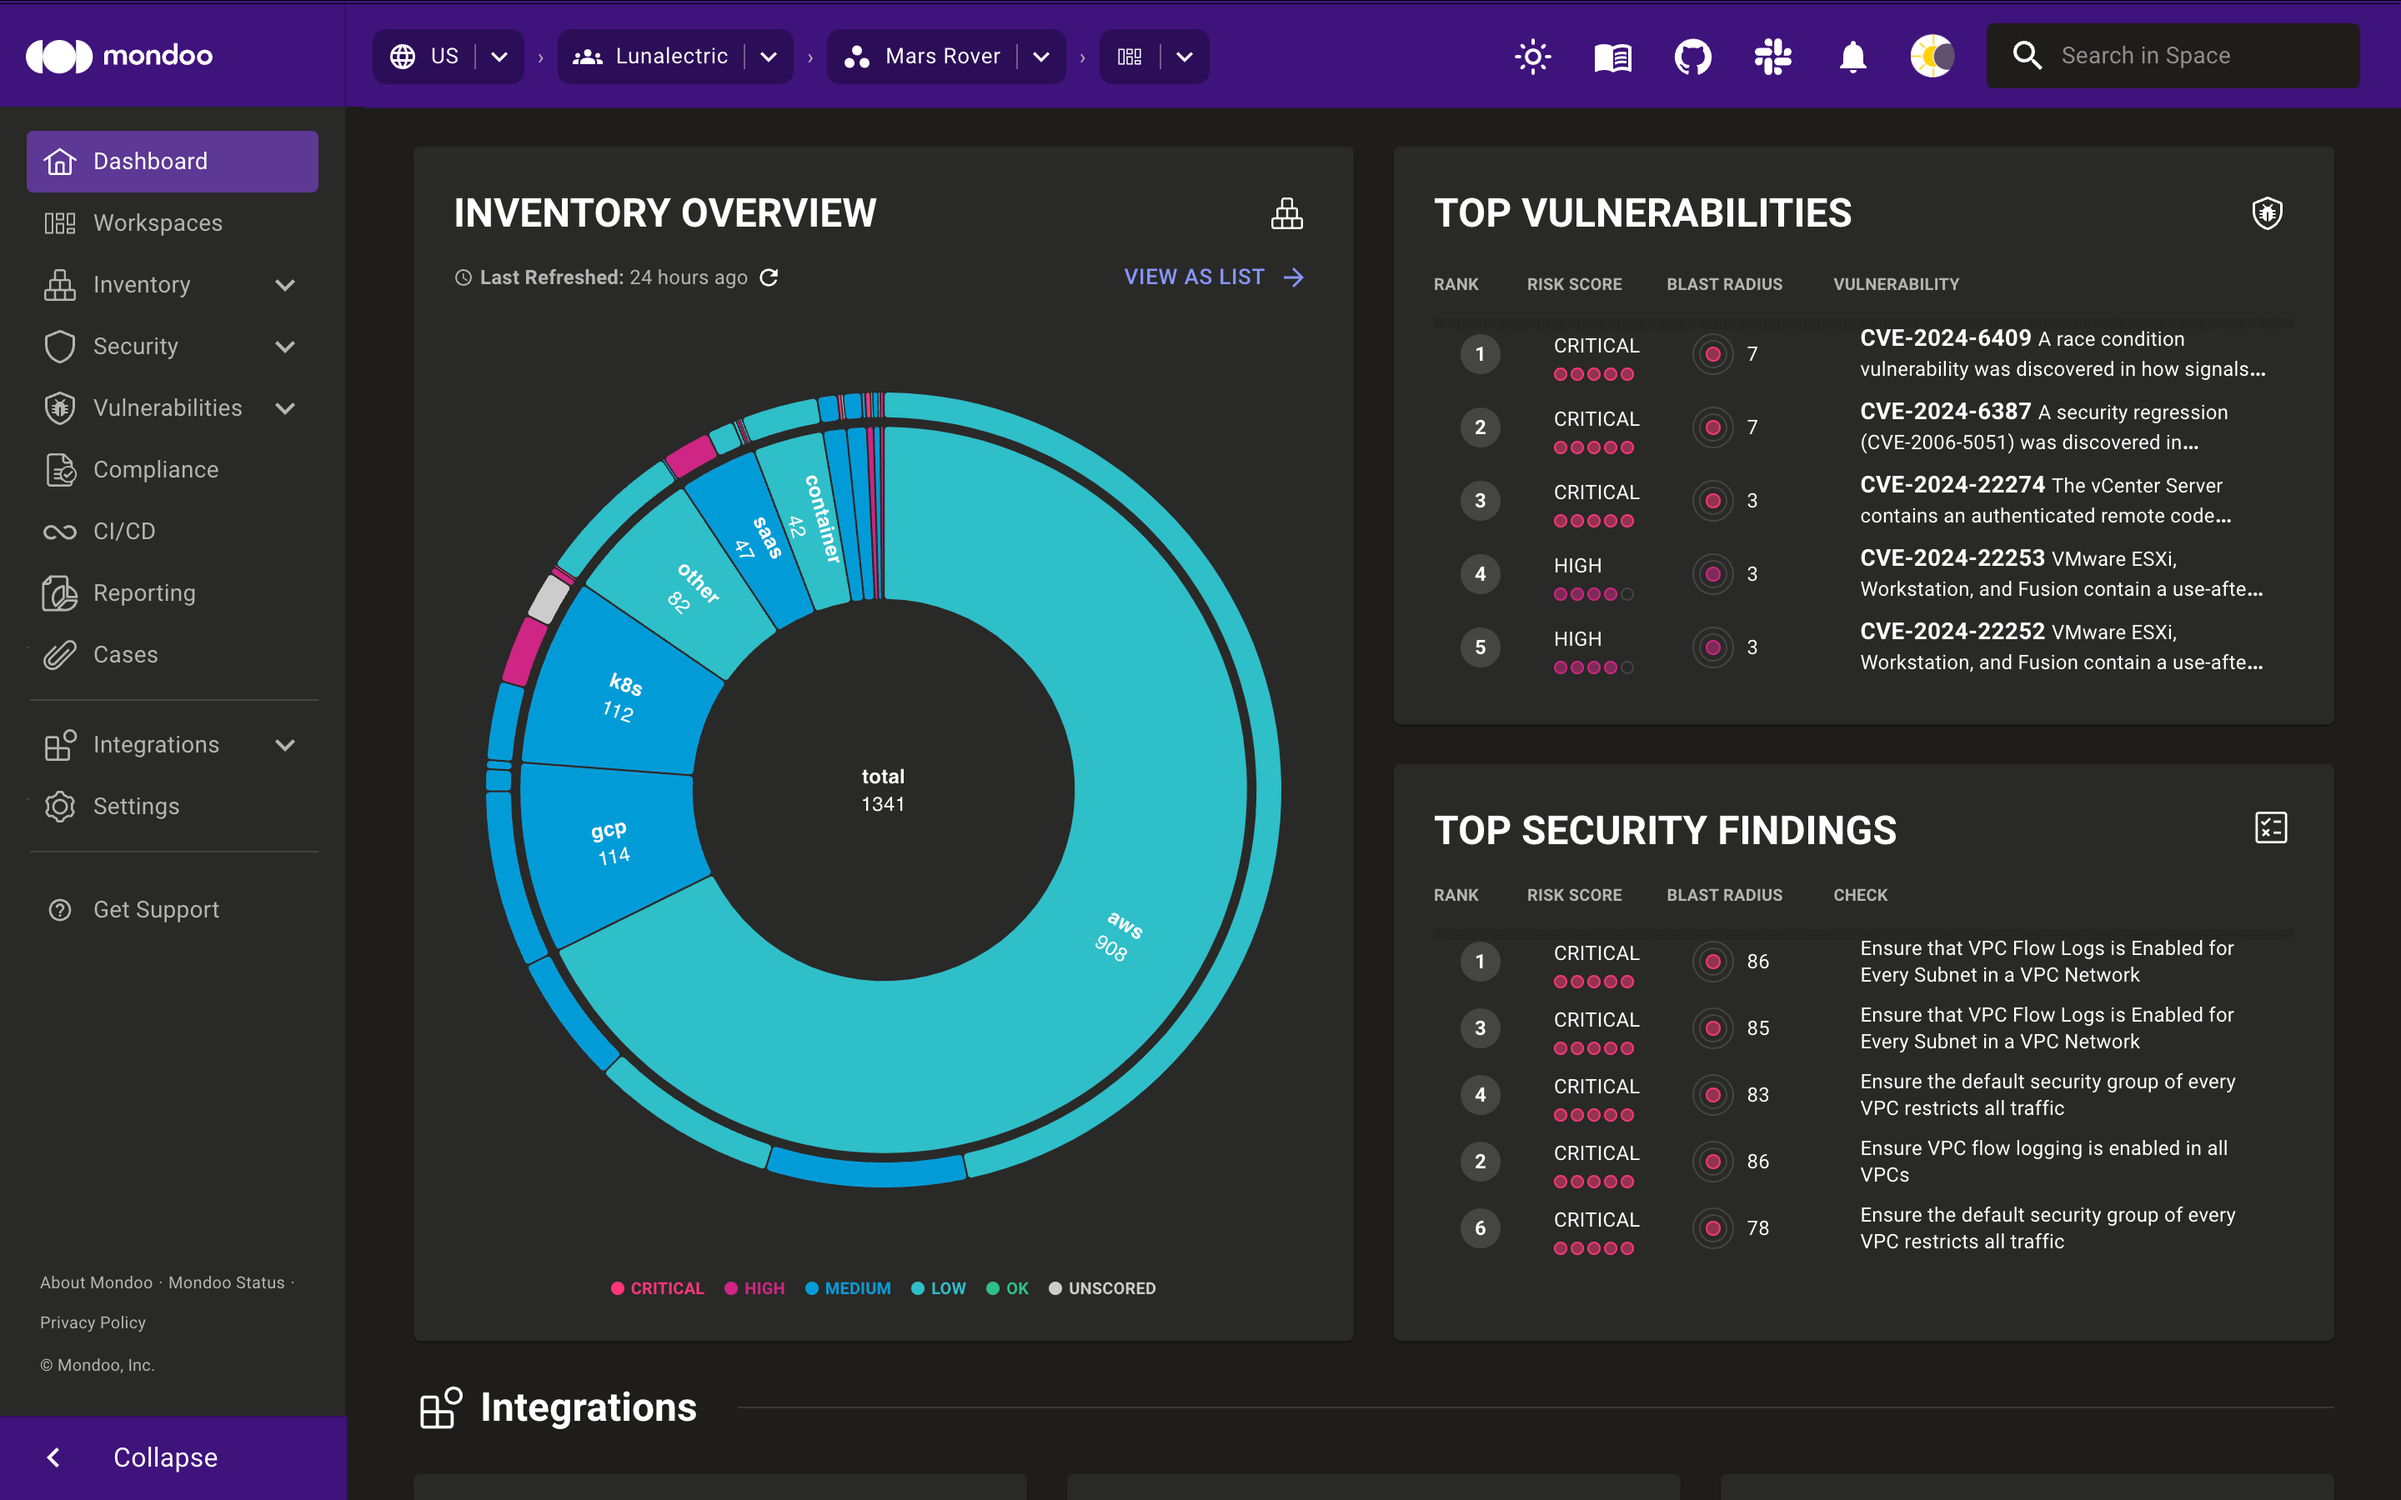
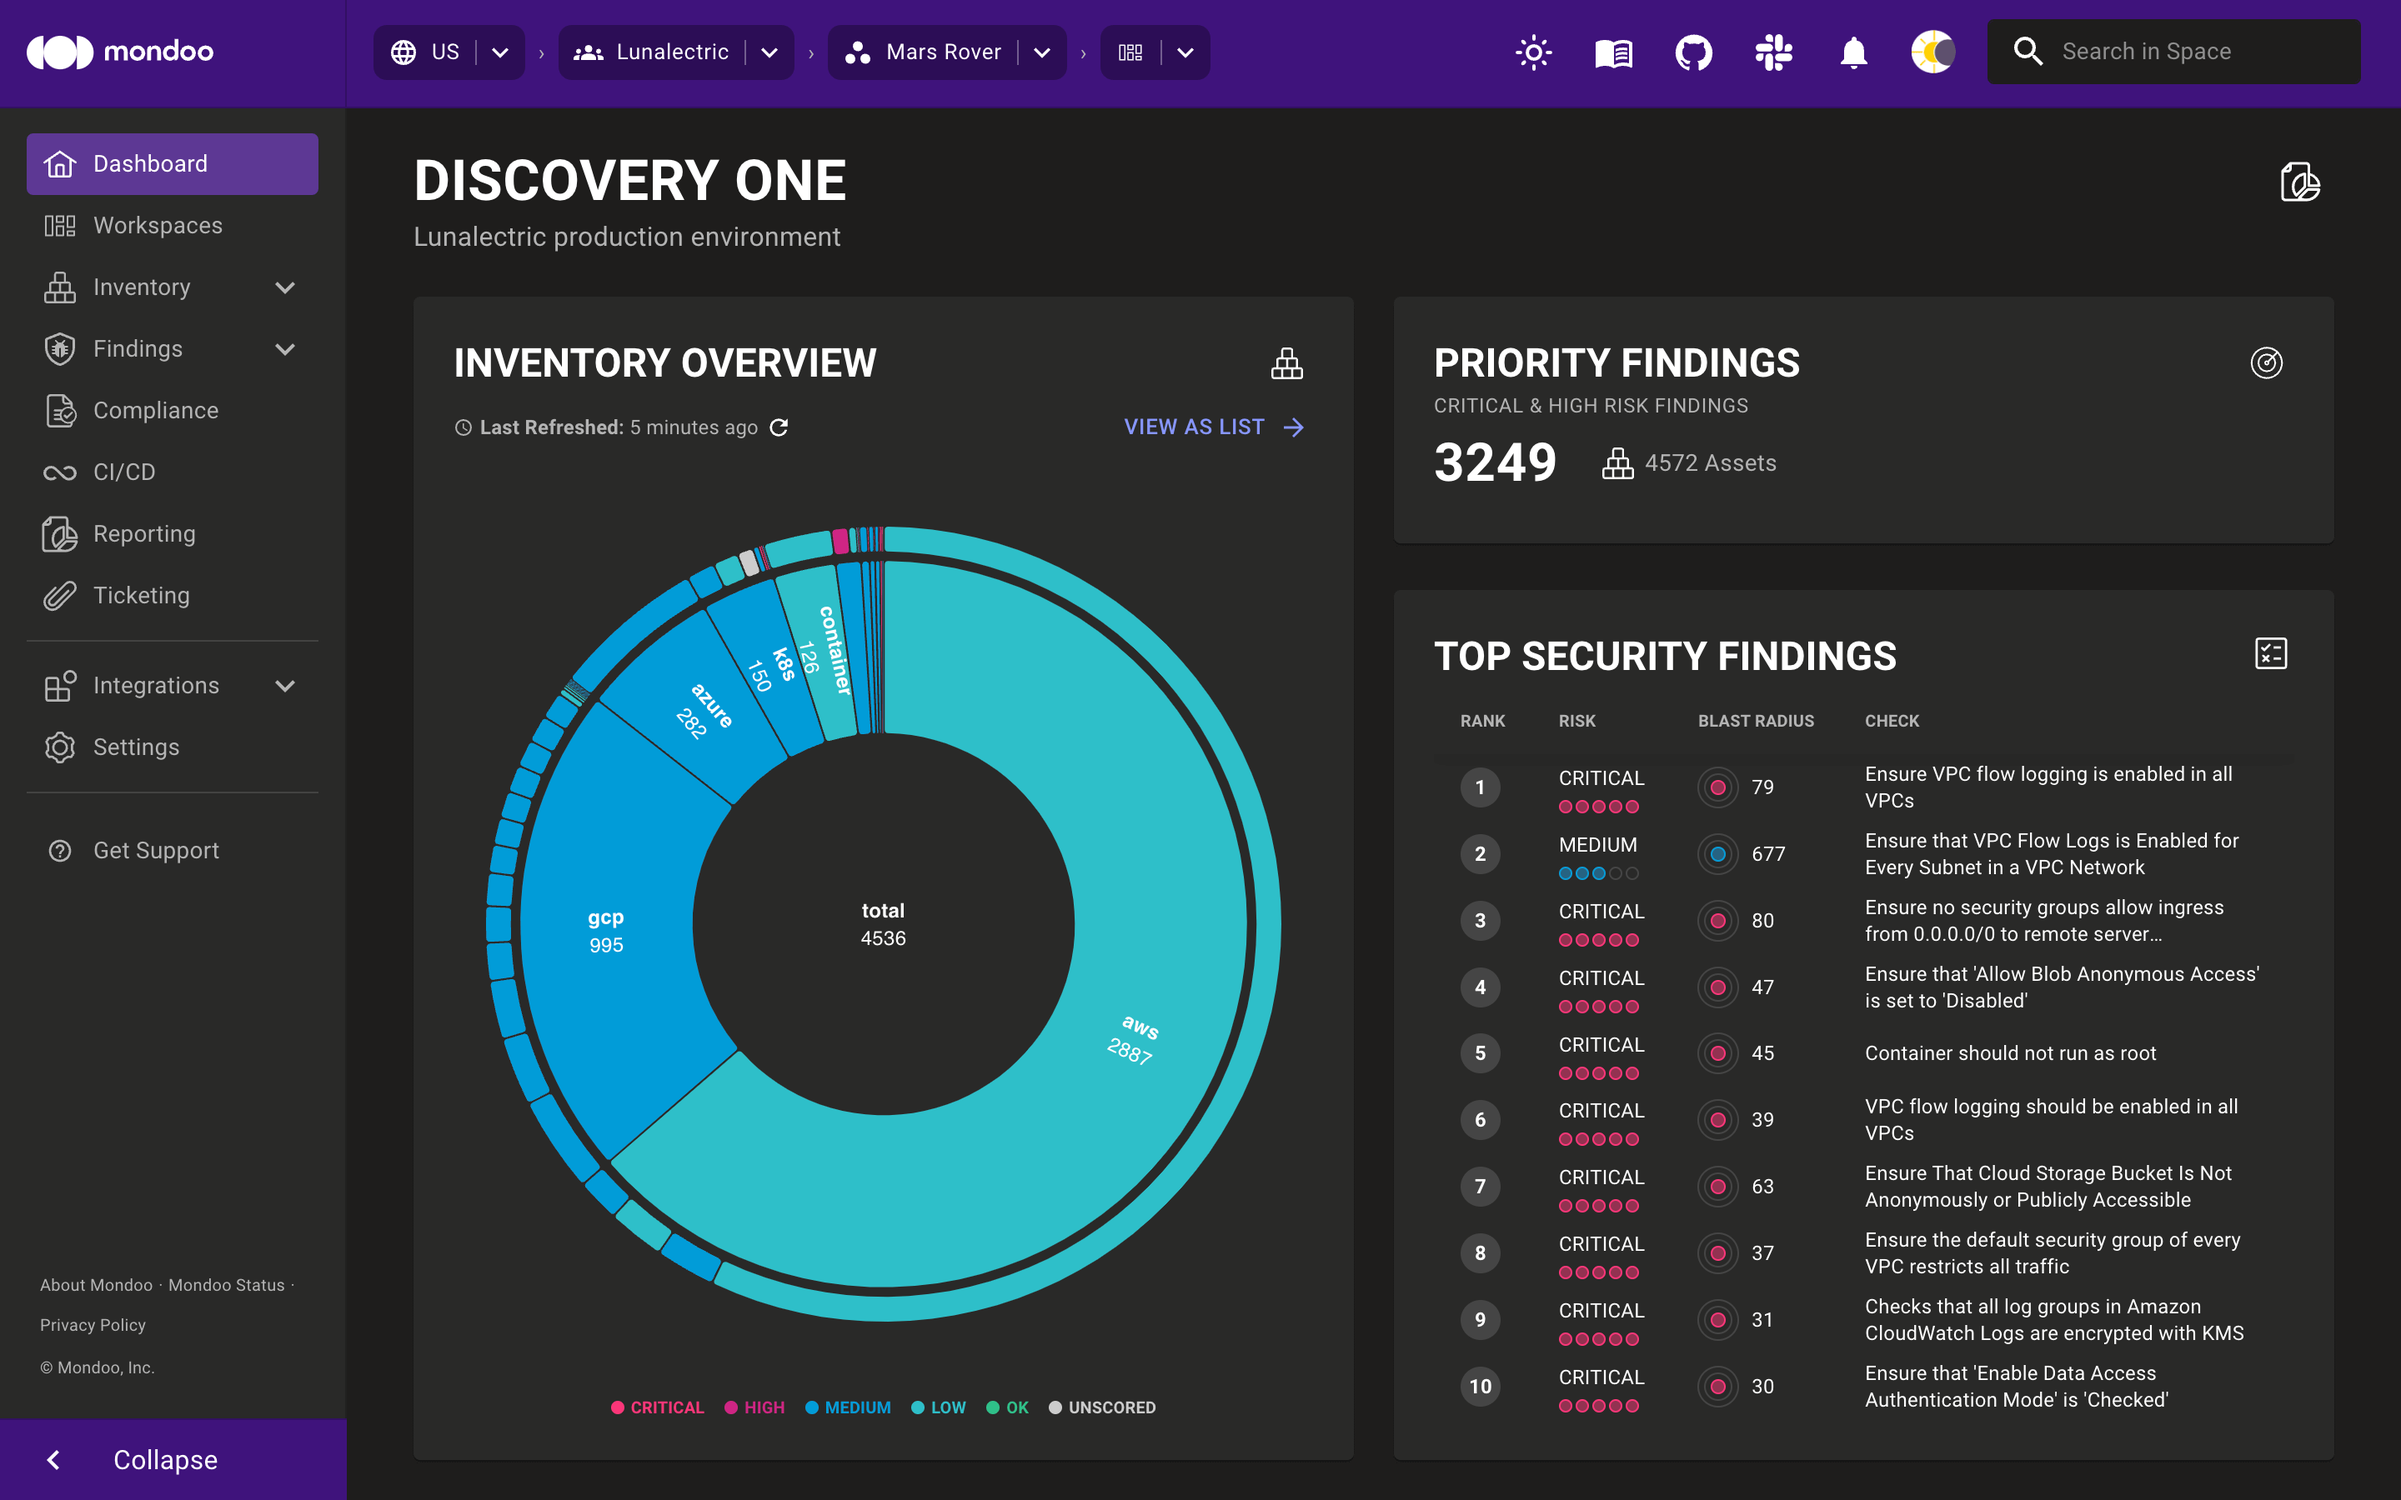
Document some of the changes made in 11.42

diff --git a/docs/cnspec/supplychain/terraform.md b/docs/cnspec/supplychain/terraform.md
@@ -32,7 +32,7 @@ Start by enabling any Terraform policies in Mondoo Platform you want to run agai
 
 1. Log in to [https://console.mondoo.com](https://console.mondoo.com).
 
-2. In the left navigation, under **Security**, select **Policies**.
+2. In the left navigation, under **Findings**, select **Policies**.
 
 3. In the top-right corner, select the plus icon (+).
 

diff --git a/docs/platform/security/posture/advisories.md b/docs/platform/security/posture/advisories.md
@@ -26,7 +26,7 @@ Find advisories for assets in a space:
 
    :::
 
-2. In the left navigation bar, under **Vulnerabilities**, select **Advisories**.
+2. In the left navigation, under **Findings**, select **Advisories**.
 
    ![Find Advisories](/img/platform/security/advisories.png)
 

diff --git a/docs/platform/security/posture/vulnerabilities.md b/docs/platform/security/posture/vulnerabilities.md
@@ -28,7 +28,7 @@ Find vulnerabilities for assets in a space:
 
    :::
 
-2. In the left navigation bar, under **Vulnerabilities**, select **CVEs**.
+2. In the left navigation, under **Findings**, select **CVEs**.
 
    ![Find vulnerabilities](/img/platform/security/cves.png)
 
